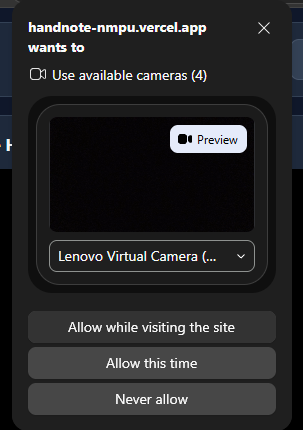
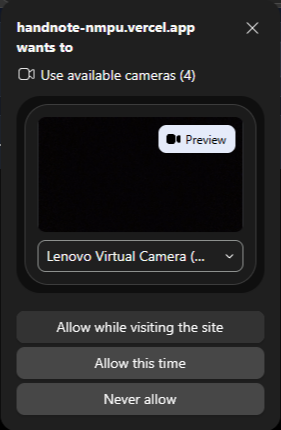
Update HandNote

diff --git a/src/components/HandTracker.tsx b/src/components/HandTracker.tsx
@@ -20,6 +20,7 @@ export default function HandTracker({
   const canvasRef = useRef<HTMLCanvasElement>(null);
 
   const [status, setStatus] = useState("Camera not started");
+  const [errorMessage, setErrorMessage] = useState("");
   const [handCount, setHandCount] = useState(0);
   const [detectedNote, setDetectedNote] = useState("None");
 
@@ -41,8 +42,8 @@ export default function HandTracker({
 
     async function startCamera() {
       try {
+        setErrorMessage("");
         setStatus("Loading hand tracking model...");
-
         const vision = await FilesetResolver.forVisionTasks(
           "/mediapipe/wasm"
         );
@@ -185,12 +186,20 @@ export default function HandTracker({
             error
           );
 
-          const message =
-            error instanceof Error
-              ? error.message
-              : String(error);
+                    setStatus("Camera unavailable");
 
-          setStatus(`Error: ${message}`);
+          if (
+            error instanceof DOMException &&
+            error.name === "NotAllowedError"
+          ) {
+            setErrorMessage(
+              "Camera access is required for gesture recognition. Allow camera access in your browser's site settings, then refresh the page."
+            );
+          } else {
+            setErrorMessage(
+              "Hand tracking could not be started. Check your webcam, then refresh the page."
+            );
+          }
         }
       }
     }
@@ -229,7 +238,13 @@ export default function HandTracker({
             : status}
         </span>
       </div>
-          <div
+                {errorMessage && (
+        <p role="alert" style={{ color: "#f87171", marginBottom: 12 }}>
+          {errorMessage}
+        </p>
+      )}
+
+      <div
         style={{
           position: "relative",
           width: "100%",
